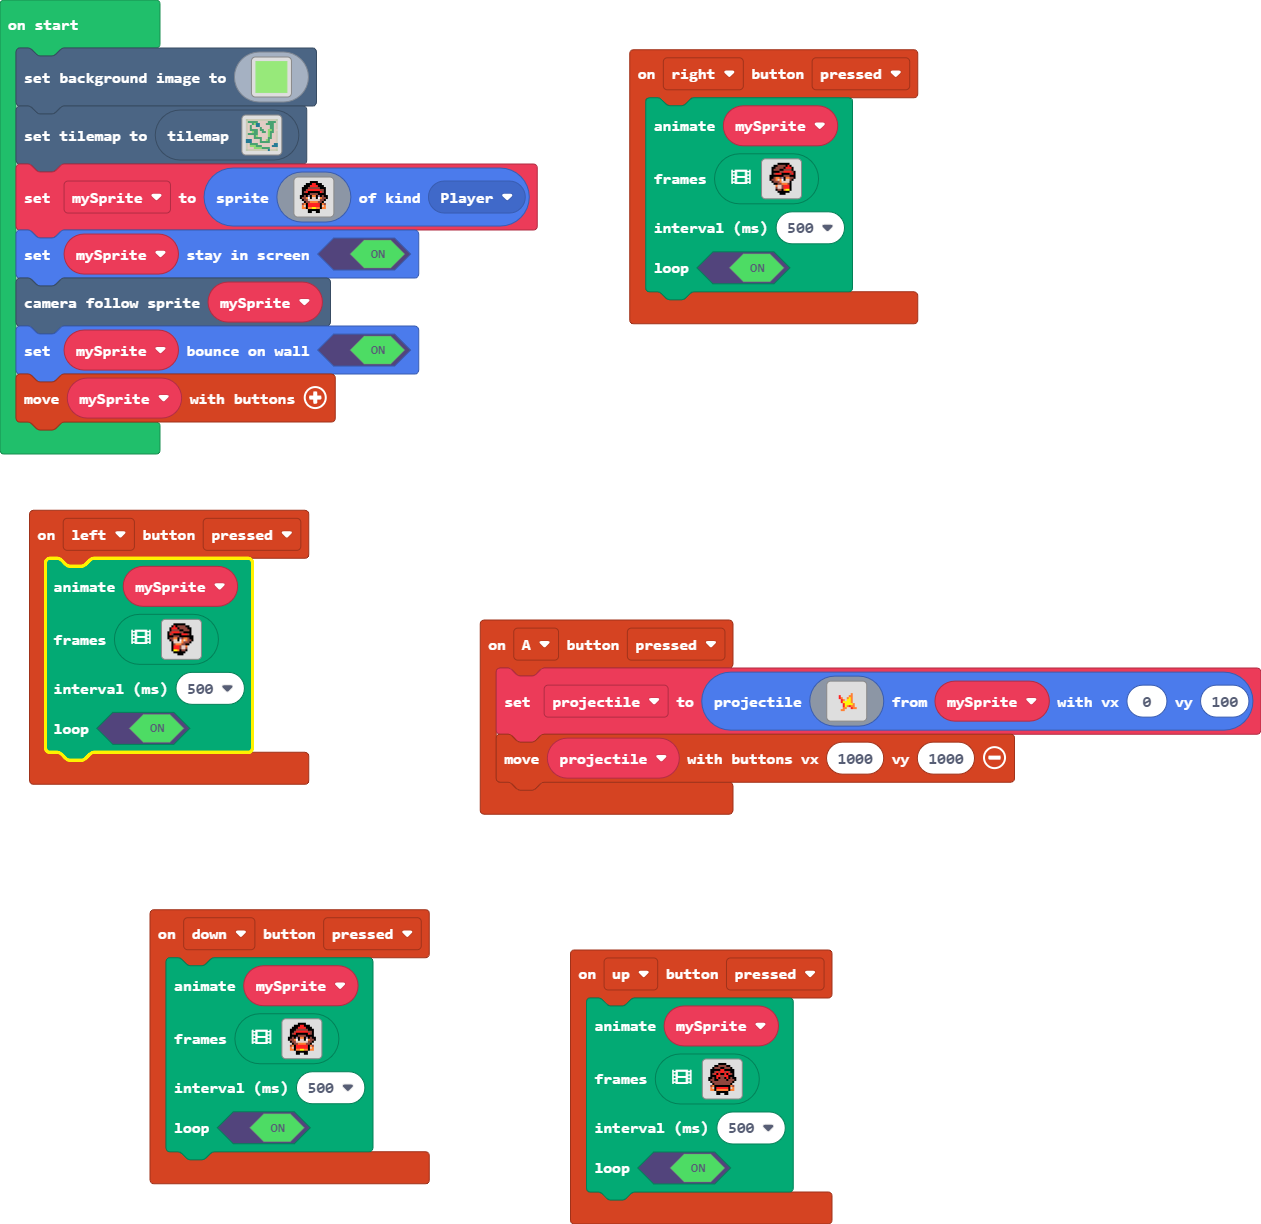
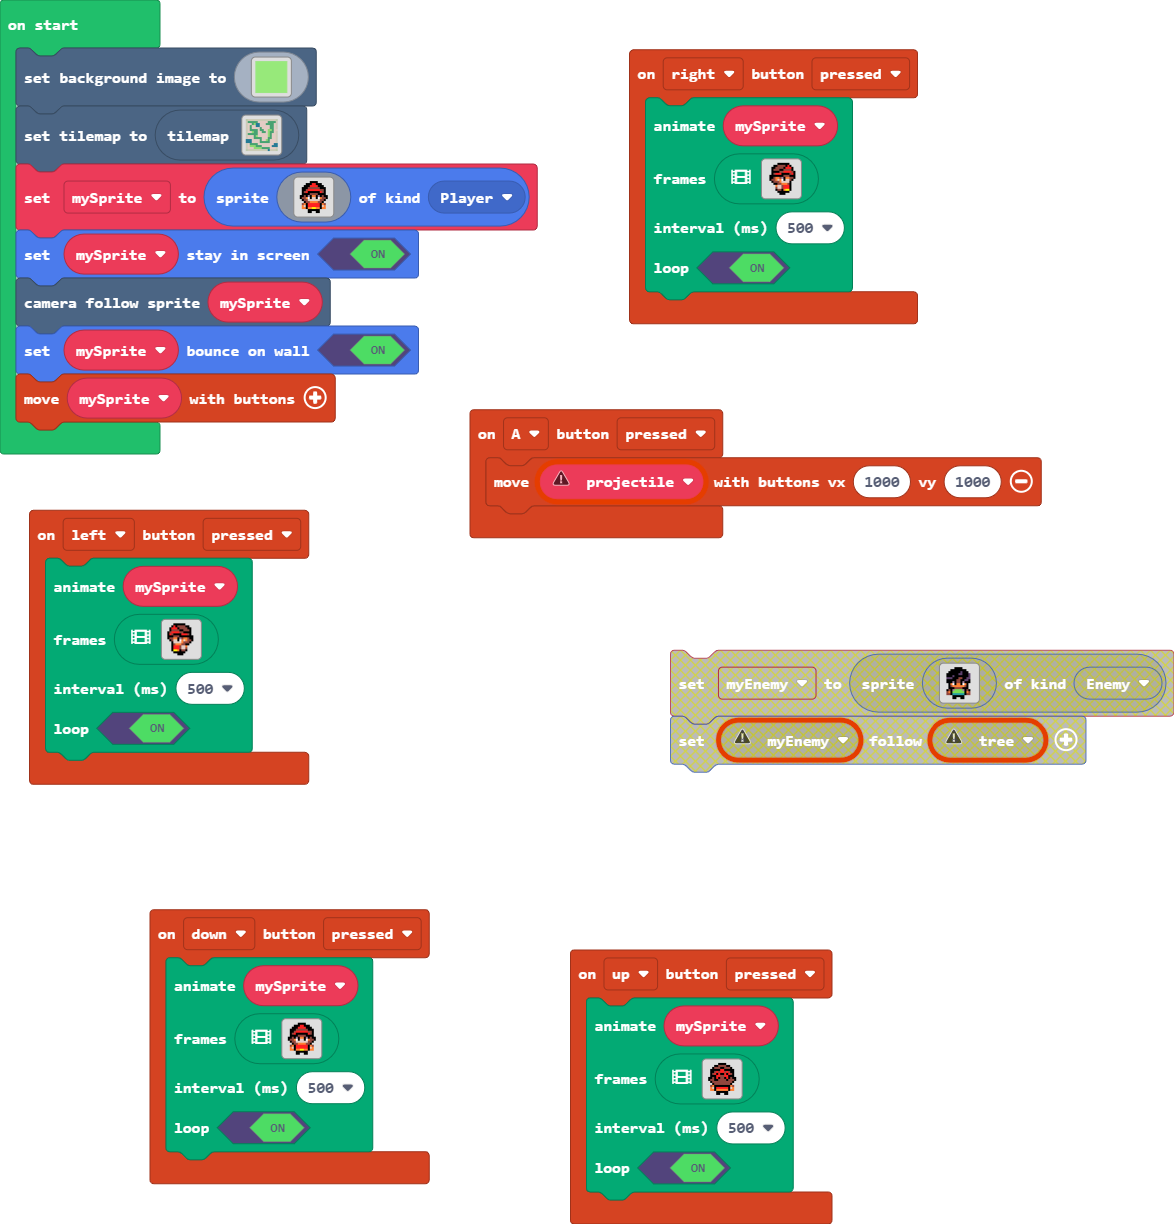
Update main.blocks, main.ts, tilemap.g.jres, tilemap.g.ts

diff --git a/tilemap.g.ts b/tilemap.g.ts
@@ -4,6 +4,8 @@ namespace myTiles {
     export const transparency16 = image.ofBuffer(hex``);
     //% fixedInstance jres blockIdentity=images._tile
     export const tile1 = image.ofBuffer(hex``);
+    //% fixedInstance jres blockIdentity=images._tile
+    export const tile2 = image.ofBuffer(hex``);
 
     helpers._registerFactory("tilemap", function(name: string) {
         switch(helpers.stringTrim(name)) {
@@ -102,6 +104,44 @@ namespace myTiles {
 . . . . 2 2 2 2 2 2 2 2 . . . . 
 . . . . . . . . . . . . . . . . 
 `, [myTiles.transparency16,sprites.castle.tileGrass2,sprites.builtin.forestTiles0,sprites.castle.tilePath1,sprites.castle.tilePath2,sprites.castle.tilePath3,sprites.castle.tilePath6,sprites.castle.tilePath9,sprites.castle.tilePath8,sprites.castle.tilePath7,sprites.castle.tilePath4,sprites.castle.tilePath5,sprites.swamp.swampTile2], TileScale.Sixteen);
+            case "level6":
+            case "level6":return tiles.createTilemap(hex`1000100000000000000000000000000000000000000000000000000000000000000000000000000000000000000000000000000000000000000000000000000000000000000000000000000000000000000000000000000000000000000000000000000000000000000000000000000000000000000000000000000000000000000000000000000000000000000000000000000000000000000000000000000000000000000000000000000000000000000000000000000000000000000000000000000000000000000000000000000000000000000000000000000000000000000000000000000000000000000000000000000000000000000000000000000000000000`, img`
+. . . . . . . . . . . . . . . . 
+. . . . . . . . . . . . . . . . 
+. . . . . . . . . . . . . . . . 
+. . . . . . . . . . . . . . . . 
+. . . . . . . . . . . . . . . . 
+. . . . . . . . . . . . . . . . 
+. . . . . . . . . . . . . . . . 
+. . . . . . . . . . . . . . . . 
+. . . . . . . . . . . . . . . . 
+. . . . . . . . . . . . . . . . 
+. . . . . . . . . . . . . . . . 
+. . . . . . . . . . . . . . . . 
+. . . . . . . . . . . . . . . . 
+. . . . . . . . . . . . . . . . 
+. . . . . . . . . . . . . . . . 
+. . . . . . . . . . . . . . . . 
+`, [myTiles.transparency16], TileScale.Sixteen);
+            case "level7":
+            case "level7":return tiles.createTilemap(hex`1000100000000000000000000000000000000000000000000000000000000000000000000000000000000000000000000000000000000000000000000000000000000000000000000000000000000000000000000000000000000000000000000000000000000000000000000000000000000000000000000000000000000000000000000000000000000000000000000000000000000000000000000000000000000000000000000000000000000000000000000000000000000000000000000000000000000000000000000000000000000000000000000000000000000000000000000000000000000000000000000000000000000000000000000000000000000000`, img`
+. . . . . . . . . . . . . . . . 
+. . . . . . . . . . . . . . . . 
+. . . . . . . . . . . . . . . . 
+. . . . . . . . . . . . . . . . 
+. . . . . . . . . . . . . . . . 
+. . . . . . . . . . . . . . . . 
+. . . . . . . . . . . . . . . . 
+. . . . . . . . . . . . . . . . 
+. . . . . . . . . . . . . . . . 
+. . . . . . . . . . . . . . . . 
+. . . . . . . . . . . . . . . . 
+. . . . . . . . . . . . . . . . 
+. . . . . . . . . . . . . . . . 
+. . . . . . . . . . . . . . . . 
+. . . . . . . . . . . . . . . . 
+. . . . . . . . . . . . . . . . 
+`, [myTiles.transparency16], TileScale.Sixteen);
         }
         return null;
     })
@@ -111,6 +151,8 @@ namespace myTiles {
             case "transparency16":return transparency16;
             case "myTile":
             case "tile1":return tile1;
+            case "myTile0":
+            case "tile2":return tile2;
         }
         return null;
     })

diff --git a/main.ts b/main.ts
@@ -75,24 +75,7 @@ controller.up.onEvent(ControllerButtonEvent.Pressed, function () {
     )
 })
 controller.A.onEvent(ControllerButtonEvent.Pressed, function () {
-    projectile = sprites.createProjectileFromSprite(img`
-        . . . . . . . . . . . . . . . . 
-        . . . . . . . . . . . . . . . . 
-        . . . . . . . . . . . . . . . . 
-        . . . . . . . . . . . . . . . . 
-        . . . . . . . . . . 4 . . . . . 
-        . . . . 2 . . . . 4 4 . . . . . 
-        . . . . 2 4 . . 4 5 4 . . . . . 
-        . . . . . 2 4 d 5 5 4 . . . . . 
-        . . . . . 2 5 5 5 5 4 . . . . . 
-        . . . . . . 2 5 5 5 5 4 . . . . 
-        . . . . . . 2 5 4 2 4 4 . . . . 
-        . . . . . . 4 4 . . 2 4 4 . . . 
-        . . . . . 4 4 . . . . . . . . . 
-        . . . . . . . . . . . . . . . . 
-        . . . . . . . . . . . . . . . . 
-        . . . . . . . . . . . . . . . . 
-        `, mySprite, 0, 100)
+    let projectile: Sprite = null
     controller.moveSprite(projectile, 1000, 1000)
 })
 controller.left.onEvent(ControllerButtonEvent.Pressed, function () {
@@ -323,7 +306,6 @@ controller.down.onEvent(ControllerButtonEvent.Pressed, function () {
     true
     )
 })
-let projectile: Sprite = null
 let mySprite: Sprite = null
 scene.setBackgroundImage(img`
     7777777777777777777777777777777777777777777777777777777777777777777777777777777777777777777777777777777777777777777777777777777777777777777777777777777777777777
